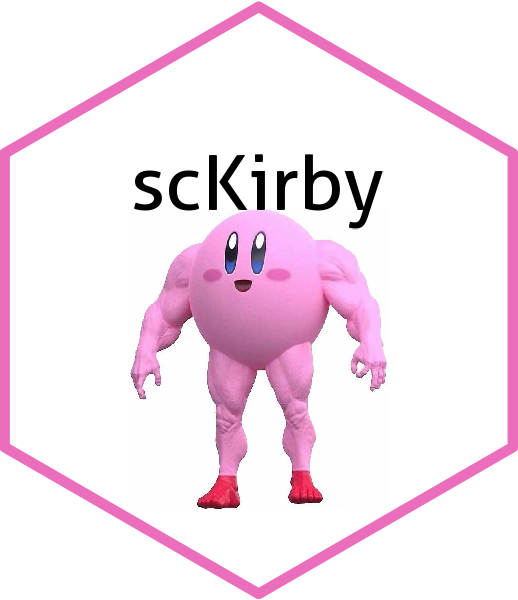
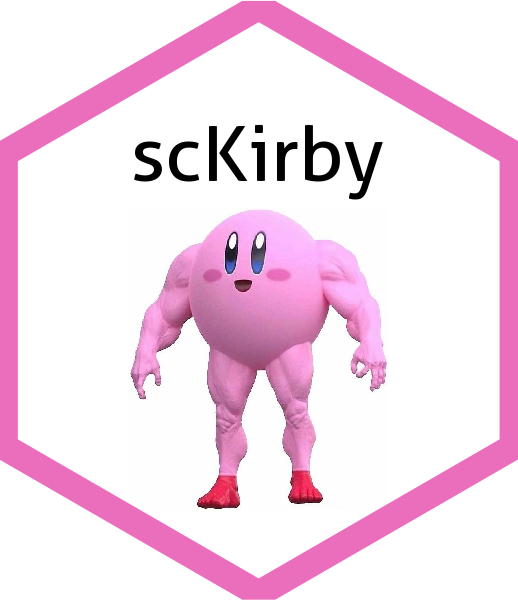
update README

Changed region(s): [[0.0, 0.0, 1.0, 1.0], [0.2471, 0.21, 0.7413, 0.39]]

diff --git a/README.md b/README.md
@@ -1,13 +1,14 @@
-scKirby
+Automated ingestion and conversion of various single-cell data formats
 ================
-<h5>
+<img src='https://github.com/bschilder/scKirby/blob/main/inst/hex/scKirby.png?raw=true' height='400'>
+<h4>
 Author: <i>Brian M. Schilder</i>
-</h5>
-<h5>
-Most recent update: <i>Jul-01-2021</i>
-</h5>
+</h4>
+<h4>
+Most recent update: <i>Sep-02-2021</i>
+</h4>
 
-## Automated ingestion and conversion of various single-cell data formats.
+# Intro
 
 There’s a lot of single-cell omics file/object formats out there, and
 not all tools support all of these formats. `scKirby` aims to make
@@ -24,11 +25,9 @@ any of these steps separately using the designated sub-functions.
 
 ## [Documentation website](https://bschilder.github.io/scKirby)
 
-## [Vignette: data ingestion](https://bschilder.github.io/scKirby/articles/ingest_data.html)
+## [Vignette: data ingestion](https://bschilder.github.io/scKirby/articles/scKirby.html)
 
 ## [Vignette: conda environments](https://bschilder.github.io/scKirby/articles/conda.html)
-
-<img src="./images/buff_kirby.jpeg" height="400">
 
 # i/o formats
 
@@ -73,6 +72,7 @@ any of these steps separately using the designated sub-functions.
     -   Multiple assays per experiment.
     -   Additional objects like dimensionality reduction projections
         (e.g. PCA, tSNE, UMAP) or graphs (e.g. K-nearest neighbors).
+        This feature will be added in the future.
 
 # Installation
 
@@ -125,7 +125,7 @@ sce <- ingest_data(obj=example_EWCElist)
 
     ## [1] "+ Checking SCE rownames."
 
-    ## + Saving SingleCellExperiment: /var/folders/zq/h7mtybc533b1qzkys_ttgpth0000gn/T//RtmpioIIU7/scKirby_output.rds
+    ## + Saving SingleCellExperiment: /tmp/RtmpQGwA8v/scKirby_output.rds
 
 ### As `Seurat`
 
@@ -145,7 +145,7 @@ seurat <- ingest_data(obj=example_EWCElist,
     ## Warning: Feature names cannot have underscores ('_'), replacing with dashes
     ## ('-')
 
-    ## + Saving Seurat: /var/folders/zq/h7mtybc533b1qzkys_ttgpth0000gn/T//RtmpioIIU7/scKirby_output.rds
+    ## + Saving Seurat: /tmp/RtmpQGwA8v/scKirby_output.rds
 
 ## Ingest Seurat
 
@@ -169,7 +169,7 @@ sce <- ingest_data(obj=example_seurat)
 
     ## [1] "+ Checking SCE rownames."
 
-    ## + Saving SingleCellExperiment: /var/folders/zq/h7mtybc533b1qzkys_ttgpth0000gn/T//RtmpioIIU7/scKirby_output.rds
+    ## + Saving SingleCellExperiment: /tmp/RtmpQGwA8v/scKirby_output.rds
 
 # Conda environments
 
@@ -195,15 +195,19 @@ utils::sessionInfo()
 ```
 
     ## R version 4.1.0 (2021-05-18)
-    ## Platform: x86_64-apple-darwin17.0 (64-bit)
-    ## Running under: macOS Big Sur 10.16
+    ## Platform: x86_64-pc-linux-gnu (64-bit)
+    ## Running under: Ubuntu 20.04.2 LTS
     ## 
     ## Matrix products: default
-    ## BLAS:   /Library/Frameworks/R.framework/Versions/4.1/Resources/lib/libRblas.dylib
-    ## LAPACK: /Library/Frameworks/R.framework/Versions/4.1/Resources/lib/libRlapack.dylib
+    ## BLAS/LAPACK: /usr/lib/x86_64-linux-gnu/openblas-pthread/libopenblasp-r0.3.8.so
     ## 
     ## locale:
-    ## [1] en_GB.UTF-8/en_GB.UTF-8/en_GB.UTF-8/C/en_GB.UTF-8/en_GB.UTF-8
+    ##  [1] LC_CTYPE=en_US.UTF-8       LC_NUMERIC=C              
+    ##  [3] LC_TIME=en_US.UTF-8        LC_COLLATE=en_US.UTF-8    
+    ##  [5] LC_MONETARY=en_US.UTF-8    LC_MESSAGES=C             
+    ##  [7] LC_PAPER=en_US.UTF-8       LC_NAME=C                 
+    ##  [9] LC_ADDRESS=C               LC_TELEPHONE=C            
+    ## [11] LC_MEASUREMENT=en_US.UTF-8 LC_IDENTIFICATION=C       
     ## 
     ## attached base packages:
     ## [1] stats     graphics  grDevices utils     datasets  methods   base     
@@ -215,17 +219,17 @@ utils::sessionInfo()
     ##   [1] Seurat_4.0.3                Rtsne_0.15                 
     ##   [3] colorspace_2.0-2            deldir_0.2-10              
     ##   [5] ellipsis_0.3.2              class_7.3-19               
-    ##   [7] ggridges_0.5.3              XVector_0.32.0             
-    ##   [9] GenomicRanges_1.44.0        gld_2.6.2                  
+    ##   [7] ggridges_0.5.3              XVector_0.33.0             
+    ##   [9] GenomicRanges_1.45.0        gld_2.6.2                  
     ##  [11] spatstat.data_2.1-0         rstudioapi_0.13            
-    ##  [13] proxy_0.4-26                leiden_0.3.8               
+    ##  [13] proxy_0.4-26                leiden_0.3.9               
     ##  [15] listenv_0.8.0               ggrepel_0.9.1              
     ##  [17] fansi_0.5.0                 mvtnorm_1.1-2              
     ##  [19] codetools_0.2-18            splines_4.1.0              
-    ##  [21] rootSolve_1.8.2.1           knitr_1.33                 
+    ##  [21] rootSolve_1.8.2.2           knitr_1.33                 
     ##  [23] polyclip_1.10-0             jsonlite_1.7.2             
     ##  [25] ica_1.0-2                   cluster_2.1.2              
-    ##  [27] png_0.1-7                   uwot_0.1.10                
+    ##  [27] png_0.1-7                   uwot_0.1.10.9000           
     ##  [29] spatstat.sparse_2.0-0       sctransform_0.3.2          
     ##  [31] shiny_1.6.0                 compiler_4.1.0             
     ##  [33] httr_1.4.2                  lazyeval_0.2.2             
@@ -236,46 +240,46 @@ utils::sessionInfo()
     ##  [43] gtable_0.3.0                glue_1.4.2                 
     ##  [45] lmom_2.8                    GenomeInfoDbData_1.2.6     
     ##  [47] reshape2_1.4.4              RANN_2.6.1                 
-    ##  [49] dplyr_1.0.7                 Rcpp_1.0.6                 
-    ##  [51] scattermore_0.7             Biobase_2.52.0             
+    ##  [49] dplyr_1.0.7                 Rcpp_1.0.7                 
+    ##  [51] scattermore_0.7             Biobase_2.53.0             
     ##  [53] vctrs_0.3.8                 nlme_3.1-152               
-    ##  [55] lmtest_0.9-38               xfun_0.24                  
+    ##  [55] lmtest_0.9-38               xfun_0.25                  
     ##  [57] stringr_1.4.0               globals_0.14.0             
     ##  [59] mime_0.11                   miniUI_0.1.1.1             
     ##  [61] lifecycle_1.0.0             irlba_2.3.3                
     ##  [63] goftest_1.2-2               future_1.21.0              
-    ##  [65] zlibbioc_1.38.0             MASS_7.3-54                
+    ##  [65] zlibbioc_1.39.0             MASS_7.3-54                
     ##  [67] zoo_1.8-9                   scales_1.1.1               
-    ##  [69] spatstat.core_2.2-0         spatstat.utils_2.2-0       
-    ##  [71] promises_1.2.0.1            MatrixGenerics_1.4.0       
-    ##  [73] parallel_4.1.0              SummarizedExperiment_1.22.0
+    ##  [69] spatstat.core_2.3-0         spatstat.utils_2.2-0       
+    ##  [71] promises_1.2.0.1            MatrixGenerics_1.5.3       
+    ##  [73] parallel_4.1.0              SummarizedExperiment_1.23.1
     ##  [75] expm_0.999-6                RColorBrewer_1.1-2         
-    ##  [77] SingleCellExperiment_1.14.1 yaml_2.2.1                 
+    ##  [77] SingleCellExperiment_1.15.1 yaml_2.2.1                 
     ##  [79] Exact_2.1                   gridExtra_2.3              
     ##  [81] pbapply_1.4-3               reticulate_1.20            
     ##  [83] ggplot2_3.3.5               rpart_4.1-15               
-    ##  [85] stringi_1.6.2               S4Vectors_0.30.0           
-    ##  [87] e1071_1.7-7                 BiocGenerics_0.38.0        
-    ##  [89] boot_1.3-28                 BiocParallel_1.26.0        
-    ##  [91] GenomeInfoDb_1.28.0         rlang_0.4.11               
-    ##  [93] pkgconfig_2.0.3             matrixStats_0.59.0         
+    ##  [85] stringi_1.7.4               S4Vectors_0.31.0           
+    ##  [87] e1071_1.7-8                 BiocGenerics_0.39.1        
+    ##  [89] boot_1.3-28                 BiocParallel_1.27.3        
+    ##  [91] GenomeInfoDb_1.29.3         rlang_0.4.11               
+    ##  [93] pkgconfig_2.0.3             matrixStats_0.60.0         
     ##  [95] bitops_1.0-7                evaluate_0.14              
     ##  [97] lattice_0.20-44             tensor_1.5                 
     ##  [99] ROCR_1.0-11                 purrr_0.3.4                
     ## [101] htmlwidgets_1.5.3           patchwork_1.1.1            
     ## [103] cowplot_1.1.1               tidyselect_1.1.1           
-    ## [105] parallelly_1.26.1           RcppAnnoy_0.0.18           
+    ## [105] parallelly_1.27.0           RcppAnnoy_0.0.19           
     ## [107] plyr_1.8.6                  magrittr_2.0.1             
-    ## [109] R6_2.5.0                    IRanges_2.26.0             
+    ## [109] R6_2.5.1                    IRanges_2.27.0             
     ## [111] DescTools_0.99.42           generics_0.1.0             
-    ## [113] DelayedArray_0.18.0         DBI_1.1.1                  
-    ## [115] mgcv_1.8-36                 pillar_1.6.1               
+    ## [113] DelayedArray_0.19.1         DBI_1.1.1                  
+    ## [115] mgcv_1.8-36                 pillar_1.6.2               
     ## [117] fitdistrplus_1.1-5          abind_1.4-5                
-    ## [119] survival_3.2-11             RCurl_1.98-1.3             
-    ## [121] tibble_3.1.2                future.apply_1.7.0         
+    ## [119] survival_3.2-12             RCurl_1.98-1.4             
+    ## [121] tibble_3.1.4                future.apply_1.8.1         
     ## [123] crayon_1.4.1                KernSmooth_2.23-20         
-    ## [125] utf8_1.2.1                  spatstat.geom_2.2-0        
-    ## [127] plotly_4.9.4.1              rmarkdown_2.9              
+    ## [125] utf8_1.2.2                  spatstat.geom_2.2-2        
+    ## [127] plotly_4.9.4.9000           rmarkdown_2.10             
     ## [129] grid_4.1.0                  data.table_1.14.0          
     ## [131] digest_0.6.27               xtable_1.8-4               
     ## [133] tidyr_1.1.3                 httpuv_1.6.1               
